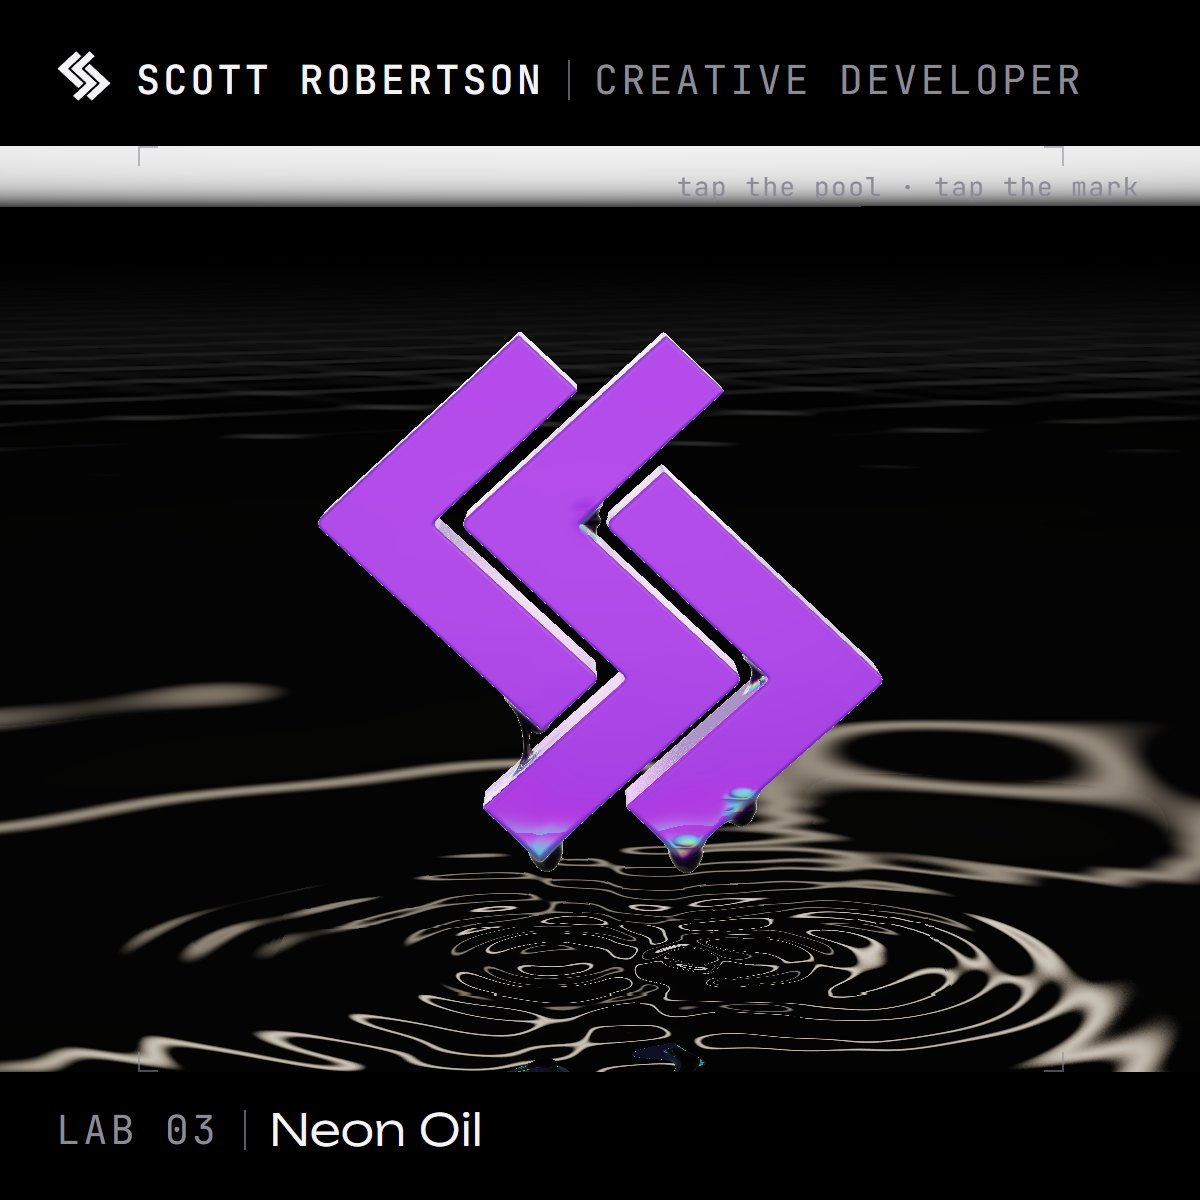
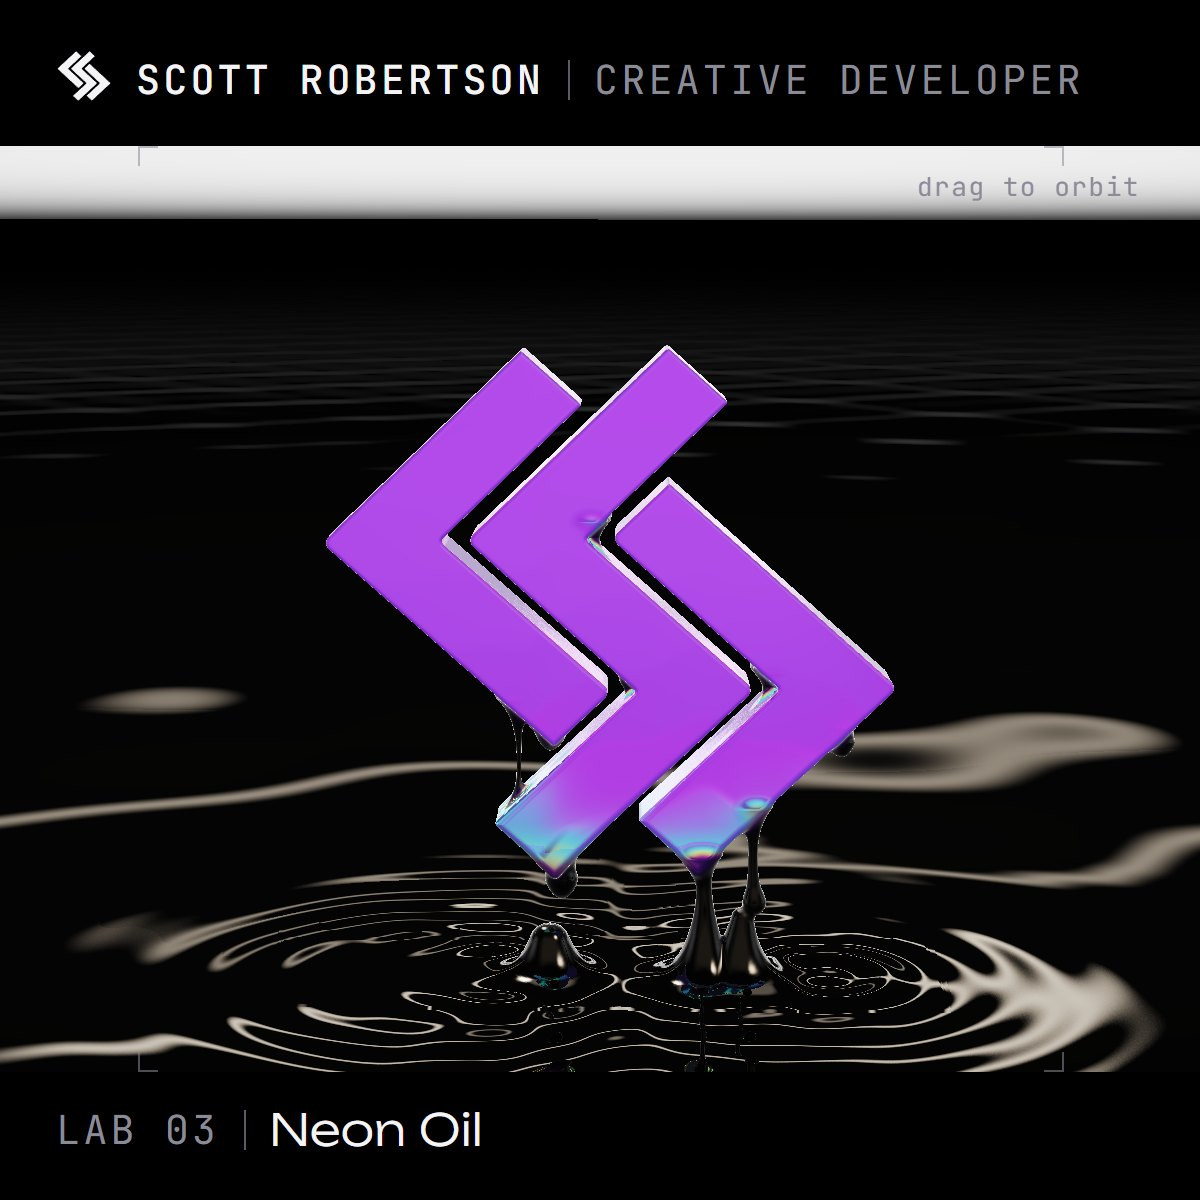
Share cards: rerender all 12 from the current labs
Big Bang's card here is still the feed-mvp version of the lab; rerender it once that branch is merged.

diff --git a/lab/pachinko/index.html b/lab/pachinko/index.html
@@ -13,7 +13,7 @@
 <meta property="og:title" content="Pachinko · Scott Robertson">
 <meta property="og:description" content="A Galton board everywhere the mark isn’t, cut along the mark’s own angles. Tap to drop a ball or hold to pour, and watch the bins lean toward a bell curve.">
 <meta property="og:url" content="https://sc0ttr0berts0n.github.io/personal-site-2026/lab/pachinko/">
-<meta property="og:image" content="https://sc0ttr0berts0n.github.io/personal-site-2026/share/pachinko.jpg?v=a201ff9b">
+<meta property="og:image" content="https://sc0ttr0berts0n.github.io/personal-site-2026/share/pachinko.jpg?v=1be1d9ab">
 <meta property="og:image:width" content="1200">
 <meta property="og:image:height" content="1200">
 <meta property="og:image:alt" content="Pachinko, lab 08 by Scott Robertson">

diff --git a/lab/goop/index.html b/lab/goop/index.html
@@ -13,7 +13,7 @@
 <meta property="og:title" content="Neon Oil · Scott Robertson">
 <meta property="og:description" content="The mark rises out of a pool of black oil. Sheets of it slide off, long ropes stretch back down to the pool and snap, and the clean mark shows through.">
 <meta property="og:url" content="https://sc0ttr0berts0n.github.io/personal-site-2026/lab/goop/">
-<meta property="og:image" content="https://sc0ttr0berts0n.github.io/personal-site-2026/share/goop.jpg?v=f5fe33eb">
+<meta property="og:image" content="https://sc0ttr0berts0n.github.io/personal-site-2026/share/goop.jpg?v=a0d265af">
 <meta property="og:image:width" content="1200">
 <meta property="og:image:height" content="1200">
 <meta property="og:image:alt" content="Neon Oil, lab 03 by Scott Robertson">

diff --git a/lab/splat/index.html b/lab/splat/index.html
@@ -13,7 +13,7 @@
 <meta property="og:title" content="Splat! · Scott Robertson">
 <meta property="og:description" content="The mark is made of slime and falling fast. It splats on the floor, the next mark pops out of the splat, then the floor gives way and down they go.">
 <meta property="og:url" content="https://sc0ttr0berts0n.github.io/personal-site-2026/lab/splat/">
-<meta property="og:image" content="https://sc0ttr0berts0n.github.io/personal-site-2026/share/splat.jpg?v=4ad8efe9">
+<meta property="og:image" content="https://sc0ttr0berts0n.github.io/personal-site-2026/share/splat.jpg?v=412557bb">
 <meta property="og:image:width" content="1200">
 <meta property="og:image:height" content="1200">
 <meta property="og:image:alt" content="Splat!, lab 12 by Scott Robertson">

diff --git a/lab/sand/index.html b/lab/sand/index.html
@@ -13,7 +13,7 @@
 <meta property="og:title" content="Falling Sand · Scott Robertson">
 <meta property="og:description" content="The mark as a sandbox of lava, water and wood. Lava eats the wood, water and lava make stone and steam, and wet ground grows flowers.">
 <meta property="og:url" content="https://sc0ttr0berts0n.github.io/personal-site-2026/lab/sand/">
-<meta property="og:image" content="https://sc0ttr0berts0n.github.io/personal-site-2026/share/sand.jpg?v=9e8bb905">
+<meta property="og:image" content="https://sc0ttr0berts0n.github.io/personal-site-2026/share/sand.jpg?v=babb146c">
 <meta property="og:image:width" content="1200">
 <meta property="og:image:height" content="1200">
 <meta property="og:image:alt" content="Falling Sand, lab 10 by Scott Robertson">

diff --git a/lab/life/index.html b/lab/life/index.html
@@ -13,7 +13,7 @@
 <meta property="og:title" content="Life · Scott Robertson">
 <meta property="og:description" content="The mark, built as a still life in Conway’s Game of Life. One glider is enough to unravel it, and when the chaos burns out, it rebuilds.">
 <meta property="og:url" content="https://sc0ttr0berts0n.github.io/personal-site-2026/lab/life/">
-<meta property="og:image" content="https://sc0ttr0berts0n.github.io/personal-site-2026/share/life.jpg?v=56c74938">
+<meta property="og:image" content="https://sc0ttr0berts0n.github.io/personal-site-2026/share/life.jpg?v=2ee64ce6">
 <meta property="og:image:width" content="1200">
 <meta property="og:image:height" content="1200">
 <meta property="og:image:alt" content="Life, lab 11 by Scott Robertson">

diff --git a/lab/prism/index.html b/lab/prism/index.html
@@ -13,7 +13,7 @@
 <meta property="og:title" content="Prism · Scott Robertson">
 <meta property="og:description" content="A laser crosses the mark from above. Each color bends at its own angle, and steep rays get trapped, bouncing around inside the glass.">
 <meta property="og:url" content="https://sc0ttr0berts0n.github.io/personal-site-2026/lab/prism/">
-<meta property="og:image" content="https://sc0ttr0berts0n.github.io/personal-site-2026/share/prism.jpg?v=1d3bb07f">
+<meta property="og:image" content="https://sc0ttr0berts0n.github.io/personal-site-2026/share/prism.jpg?v=be388ca1">
 <meta property="og:image:width" content="1200">
 <meta property="og:image:height" content="1200">
 <meta property="og:image:alt" content="Prism, lab 02 by Scott Robertson">

diff --git a/lab/neural/index.html b/lab/neural/index.html
@@ -13,7 +13,7 @@
 <meta property="og:title" content="Neural Mark · Scott Robertson">
 <meta property="og:description" content="A small neural network learns the mark from scratch, live, in seconds. Scribble on it and watch it forget, then heal.">
 <meta property="og:url" content="https://sc0ttr0berts0n.github.io/personal-site-2026/lab/neural/">
-<meta property="og:image" content="https://sc0ttr0berts0n.github.io/personal-site-2026/share/neural.jpg?v=9528997a">
+<meta property="og:image" content="https://sc0ttr0berts0n.github.io/personal-site-2026/share/neural.jpg?v=509c642d">
 <meta property="og:image:width" content="1200">
 <meta property="og:image:height" content="1200">
 <meta property="og:image:alt" content="Neural Mark, lab 09 by Scott Robertson">

diff --git a/lab/maze/index.html b/lab/maze/index.html
@@ -13,7 +13,7 @@
 <meta property="og:title" content="Maze · Scott Robertson">
 <meta property="og:description" content="Each chevron holds its own maze, and A* solves all three at once. Change the heuristic and see how much of each maze it has to explore.">
 <meta property="og:url" content="https://sc0ttr0berts0n.github.io/personal-site-2026/lab/maze/">
-<meta property="og:image" content="https://sc0ttr0berts0n.github.io/personal-site-2026/share/maze.jpg?v=602d6f21">
+<meta property="og:image" content="https://sc0ttr0berts0n.github.io/personal-site-2026/share/maze.jpg?v=607431f8">
 <meta property="og:image:width" content="1200">
 <meta property="og:image:height" content="1200">
 <meta property="og:image:alt" content="Maze, lab 07 by Scott Robertson">

diff --git a/index.html b/index.html
@@ -15,7 +15,7 @@
 <meta property="og:title" content="Scott Robertson · Creative Developer">
 <meta property="og:description" content="Each chevron is a sealed glass vessel, part-filled with liquid. Tilt it and watch the surface slosh, then settle level again.">
 <meta property="og:url" content="https://sc0ttr0berts0n.github.io/personal-site-2026/">
-<meta property="og:image" content="https://sc0ttr0berts0n.github.io/personal-site-2026/share/fluid.jpg?v=edcc228f">
+<meta property="og:image" content="https://sc0ttr0berts0n.github.io/personal-site-2026/share/fluid.jpg?v=ba72360a">
 <meta property="og:image:width" content="1200">
 <meta property="og:image:height" content="1200">
 <meta property="og:image:alt" content="Vessel, lab 01 by Scott Robertson">

diff --git a/lab/fluid/index.html b/lab/fluid/index.html
@@ -13,7 +13,7 @@
 <meta property="og:title" content="Vessel · Scott Robertson">
 <meta property="og:description" content="Each chevron is a sealed glass vessel, part-filled with liquid. Tilt it and watch the surface slosh, then settle level again.">
 <meta property="og:url" content="https://sc0ttr0berts0n.github.io/personal-site-2026/lab/fluid/">
-<meta property="og:image" content="https://sc0ttr0berts0n.github.io/personal-site-2026/share/fluid.jpg?v=edcc228f">
+<meta property="og:image" content="https://sc0ttr0berts0n.github.io/personal-site-2026/share/fluid.jpg?v=ba72360a">
 <meta property="og:image:width" content="1200">
 <meta property="og:image:height" content="1200">
 <meta property="og:image:alt" content="Vessel, lab 01 by Scott Robertson">

diff --git a/lab/knockout/index.html b/lab/knockout/index.html
@@ -13,7 +13,7 @@
 <meta property="og:title" content="Knockout · Scott Robertson">
 <meta property="og:description" content="The mark stands on three slim plinths with rubber caps. Pull back anywhere and let go to throw a ball at it.">
 <meta property="og:url" content="https://sc0ttr0berts0n.github.io/personal-site-2026/lab/knockout/">
-<meta property="og:image" content="https://sc0ttr0berts0n.github.io/personal-site-2026/share/knockout.jpg?v=cd1b2821">
+<meta property="og:image" content="https://sc0ttr0berts0n.github.io/personal-site-2026/share/knockout.jpg?v=0877143f">
 <meta property="og:image:width" content="1200">
 <meta property="og:image:height" content="1200">
 <meta property="og:image:alt" content="Knockout, lab 04 by Scott Robertson">

diff --git a/lab/godrays/index.html b/lab/godrays/index.html
@@ -13,7 +13,7 @@
 <meta property="og:title" content="Radiant · Scott Robertson">
 <meta property="og:description" content="A lamp glows behind the mark in a hazy room and carves out light shafts as the light shines through.">
 <meta property="og:url" content="https://sc0ttr0berts0n.github.io/personal-site-2026/lab/godrays/">
-<meta property="og:image" content="https://sc0ttr0berts0n.github.io/personal-site-2026/share/godrays.jpg?v=ae606f5a">
+<meta property="og:image" content="https://sc0ttr0berts0n.github.io/personal-site-2026/share/godrays.jpg?v=69071207">
 <meta property="og:image:width" content="1200">
 <meta property="og:image:height" content="1200">
 <meta property="og:image:alt" content="Radiant, lab 06 by Scott Robertson">
